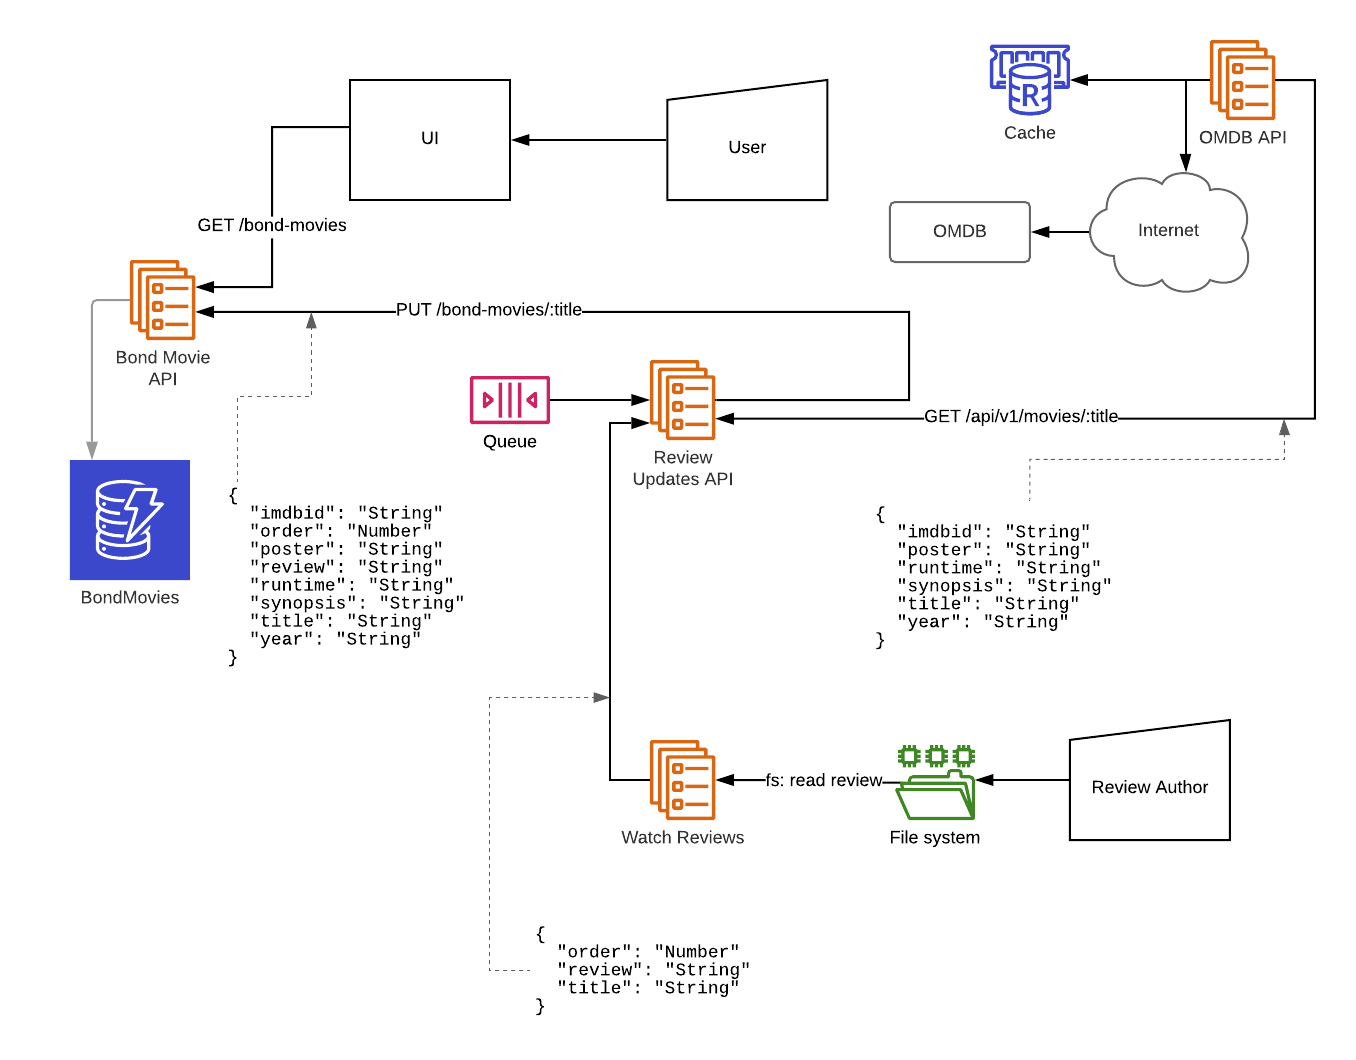
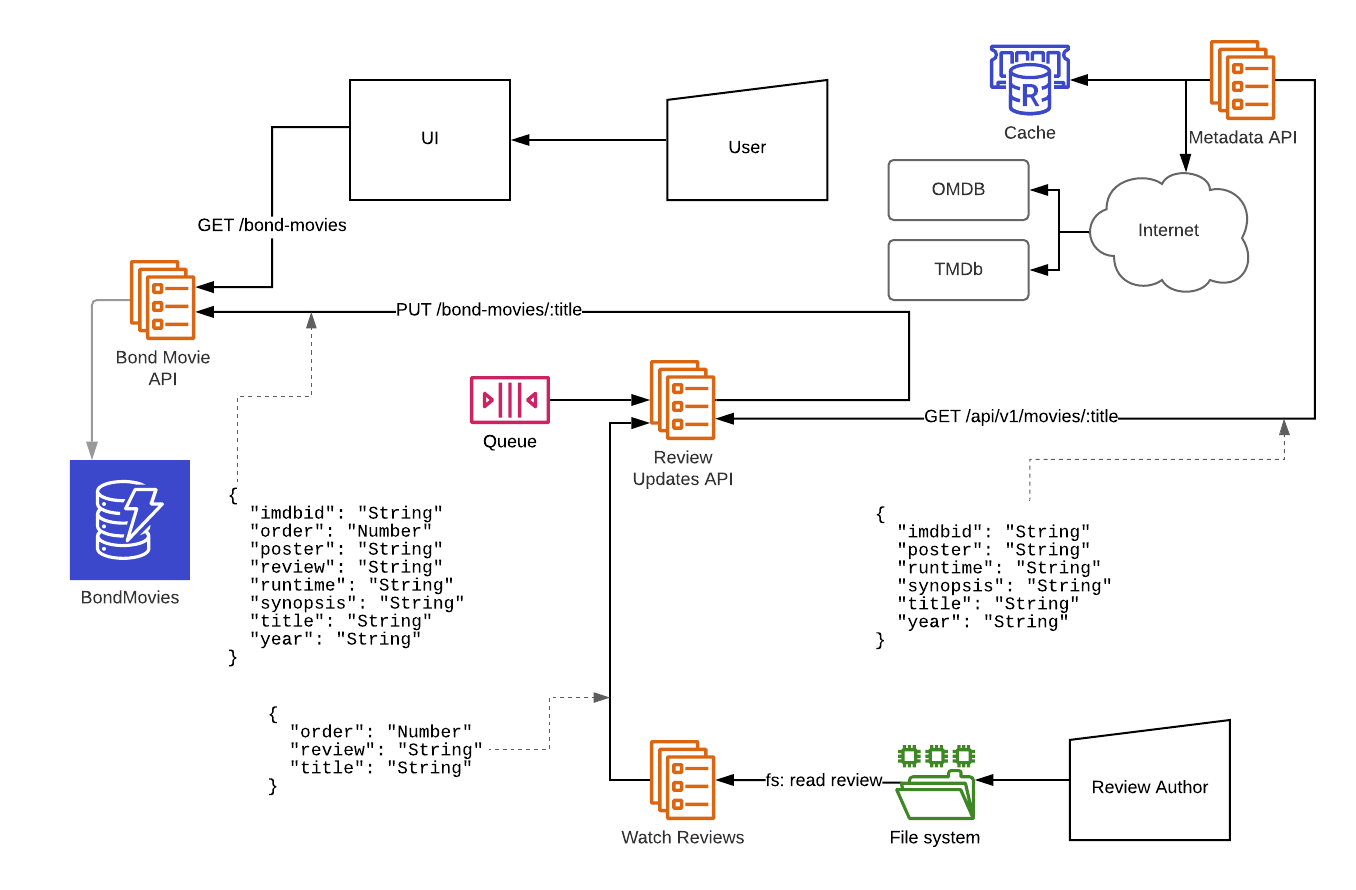
wip: normalise the port setup of all services

diff --git a/watch-reviews/app/setup.js b/watch-reviews/app/setup.js
@@ -17,6 +17,9 @@ const getReviewHTML = async (fname) => {
 
 config.file(`./config/config.json`);
 
+if (process.env.REVIEW_UPDATES_API_PORT) {
+  config.set('app:review_updates_api_port', process.env.REVIEW_UPDATES_API_PORT);
+}
 logger.info({
   type: 'START',
   msg: `Starting up...\n\nSettings: ${JSON.stringify(config.get())}`,
@@ -29,14 +32,17 @@ const filmMeta = require(`${config.get('app:base_fs_path')}/${config.get('app:fi
   const watcher = watch(['./storage/reviews/**/*'], { ignoreInitial: false });
 
   const postMovieToProcess = async reviewFileName => {
-    const url = `${config.get('app:queue_service_url')}/v1/bond-movie-events/review-updates/enqueue`;
+    const domain = config.get('app:review_updates_api_domain');
+    const port = config.get('app:review_updates_api_port');
+    const url = `${domain}:${port}/v1/bond-movie-events/review-updates/enqueue`;
+    logger.info({ url });
     const fName = reviewFileName.split('/').slice(-1).pop();
     const metaData = filmMeta.data.find(v => v.review === fName);
     const { order, title }  = metaData;
     const review = await getReviewHTML(fName);
     if (!review) return null;
     const dataToSend = { order, review, title };
-    logger.info({ type: 'SEND_DATA', data: JSON.stringify(dataToSend), url });
+    // logger.info({ type: 'SEND_DATA', data: JSON.stringify(dataToSend), url });
     try {
       const rslt = await fetch(url, {
         body: JSON.stringify(dataToSend),

diff --git a/process-queue-kafkajs/app/server.js b/process-queue-kafkajs/app/server.js
@@ -43,6 +43,6 @@ router.post('/v1/bond-movie-events/review-updates/enqueue', addMovieReviewUpdate
 app.use(router.routes());
 
 logger.info({ msg: 'Listening on 3002', routes: router.stack.map(i => i.path)  });
-app.listen(3002);
+app.listen(3006);
 
 

diff --git a/process-queue-kafka-node/app/server.js b/process-queue-kafka-node/app/server.js
@@ -38,7 +38,7 @@ router.get('/v1/setup', setup);
 app.use(router.routes());
 
 logger.info({ msg: 'Listening on 3002', routes: router.stack.map(i => i.path)  });
-app.listen(3002);
+app.listen(3005);
 
 // Hacky setup method...
 setTimeout(() => {

diff --git a/movie-metadata-api/app/server.js b/movie-metadata-api/app/server.js
@@ -35,5 +35,5 @@ const router = new KoaRouter();
 router.get('/api/v1/movies/:title', getMovie);
 app.use(router.routes());
 
-app.listen(3001);
+app.listen(3000);
 

diff --git a/bond-movies-api-spring-postgresql/src/main/java/org/troot/bondmovieapi/domain/BondMovie.java b/bond-movies-api-spring-postgresql/src/main/java/org/troot/bondmovieapi/domain/BondMovie.java
@@ -5,7 +5,9 @@ import javax.validation.constraints.NotBlank;
 import javax.validation.constraints.NotNull;
 
 @Entity
-@Table(name = "bond_movies", schema = "public")
+@Table(name = "bond_movies", schema = "public", uniqueConstraints={
+  @UniqueConstraint(columnNames = {"title", "movieType", "releaseYear"})
+})
 public class BondMovie {
 
   // https://ntsim.uk/posts/how-to-use-hibernate-identifier-sequence-generators-properly
@@ -81,14 +83,14 @@ public class BondMovie {
     this.synopsis = synopsis;
   }
 
-  private String type;
+  private String movieType;
   @Column
   @NotBlank(message = "Type is mandatory")
-  public String getType() {
-    return type;
+  public String getMovieType() {
+    return movieType;
   }
-  public void setType(String type) {
-    this.type = type;
+  public void setMovieType(String movieType) {
+    this.movieType = movieType;
   }
 
   private String year;

diff --git a/bond-movies-api-spring-dynamodb/src/main/java/org/troot/BondSpring/BondSpringApplication.java b/bond-movies-api-spring-dynamodb/src/main/java/org/troot/BondSpring/BondSpringApplication.java
@@ -1,6 +1,5 @@
 package org.troot.BondSpring;
 
-import org.socialsignin.spring.data.dynamodb.repository.config.EnableDynamoDBRepositories;
 import org.springframework.boot.autoconfigure.SpringBootApplication;
 
 import static org.springframework.boot.SpringApplication.run;

diff --git a/README.md b/README.md
@@ -21,22 +21,22 @@ Some of the derired traits of the system are;
 
 Command Application that monitors local markdown files for changes. The primary focus of this to test web frameworks and database implementations.
 
-  * Node.js + DynamoDB
-  * Java + Spring Boot + Hibernate + DynamoDB
-  * Java + Spring Boot + Hibernate + PostgreSQL
+  * Node.js (Port: 3001) + DynamoDB (Shared) (Port: 8000)
+  * Java (Port: 3002) + Spring Boot + Hibernate + DynamoDB (Shared) (Port: 8000)
+  * Java (Port: 3003) + Spring Boot + Hibernate + PostgreSQL (Port: 5432)
 
 ## Metadata API
 
-Metadata API which caches metadata taken from an external API. The primary focus of this service is to test cache infrastructure and caching libraries. Future infrastructure include memcache and in-memory. Future client libraries include Spring Boot. There are two supported metadata stores; a) [The Movie Database](https://www.themoviedb.org) b) [The Open Movie Database](http://www.omdbapi.com).
+Metadata API which caches metadata taken from an external API. The primary focus of this service is to test cache infrastructure and caching libraries. There are two supported metadata stores; a) [The Movie Database](https://www.themoviedb.org) b) [The Open Movie Database](http://www.omdbapi.com).
 
- * Node.js + node redis + Redis
+ * Node.js (Port: 3004) + node redis + Redis (Port: 6375)
 
 ## Review Updates API
 
 Queue API which processess updated Bond movie reviews
 
- * Node.js + kafka-node + Kafka
- * Node.js + kafkajs + Kafka
+ * Node.js (Port: 3005) + kafka-node + Kafka (Shared) (Port: 9092) + Zookeeper (Shared) (Port: 2181)
+ * Node.js (Port: 3006) + kafkajs + Kafka (Shared) (Port: 9092) + Zookeeper (Shared) (Port: 2181)
 
 ## Watch Reviews
 
@@ -48,6 +48,6 @@ RESTful API for accessing Bond movie reviews with their metadata
 
 UI for the end user to consume the RESTful API
 
- * Vanilla js
+ * Node.js (Port: 3007) + Vanilla js
 
 
